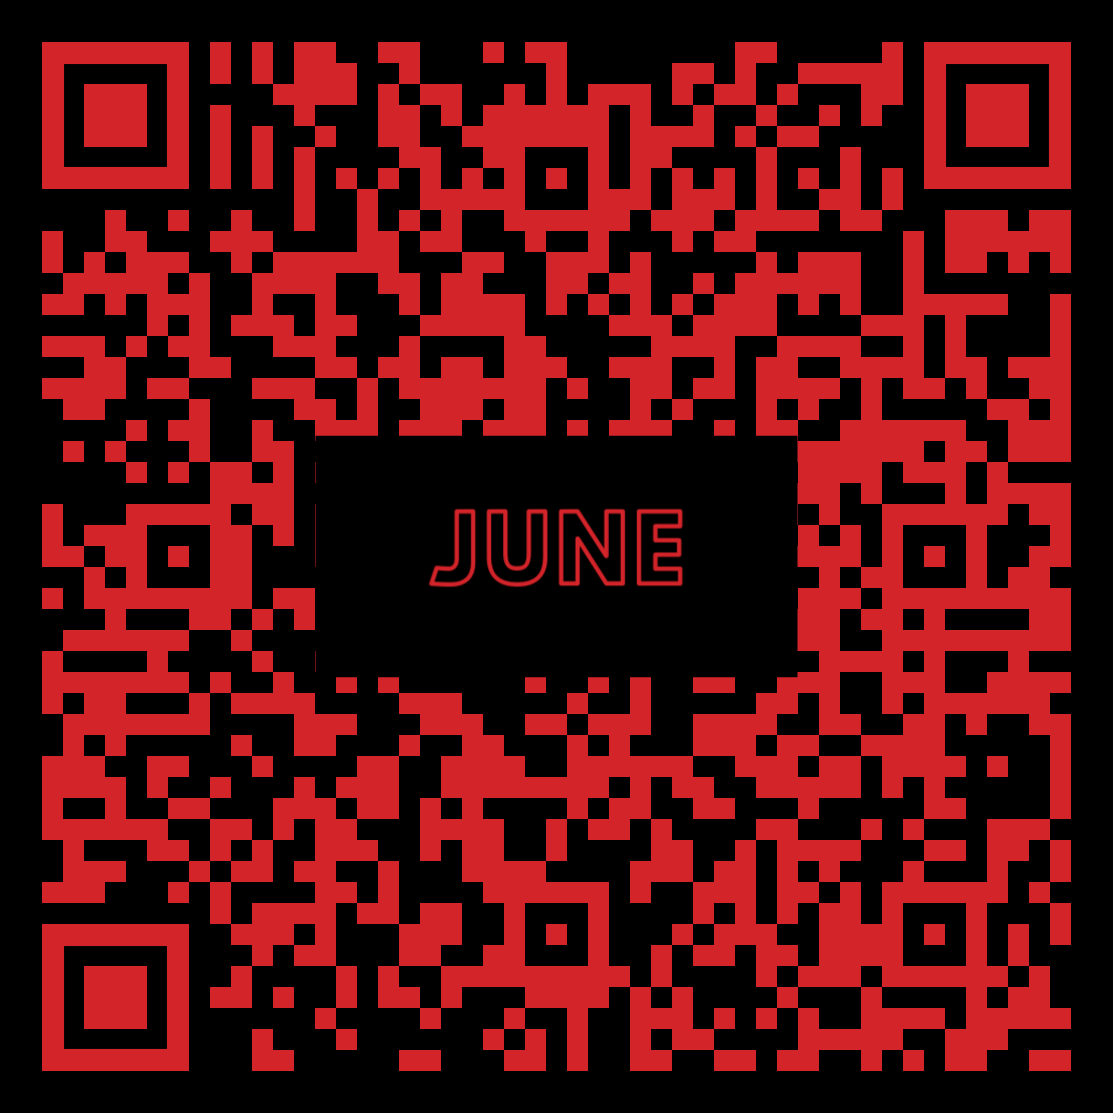
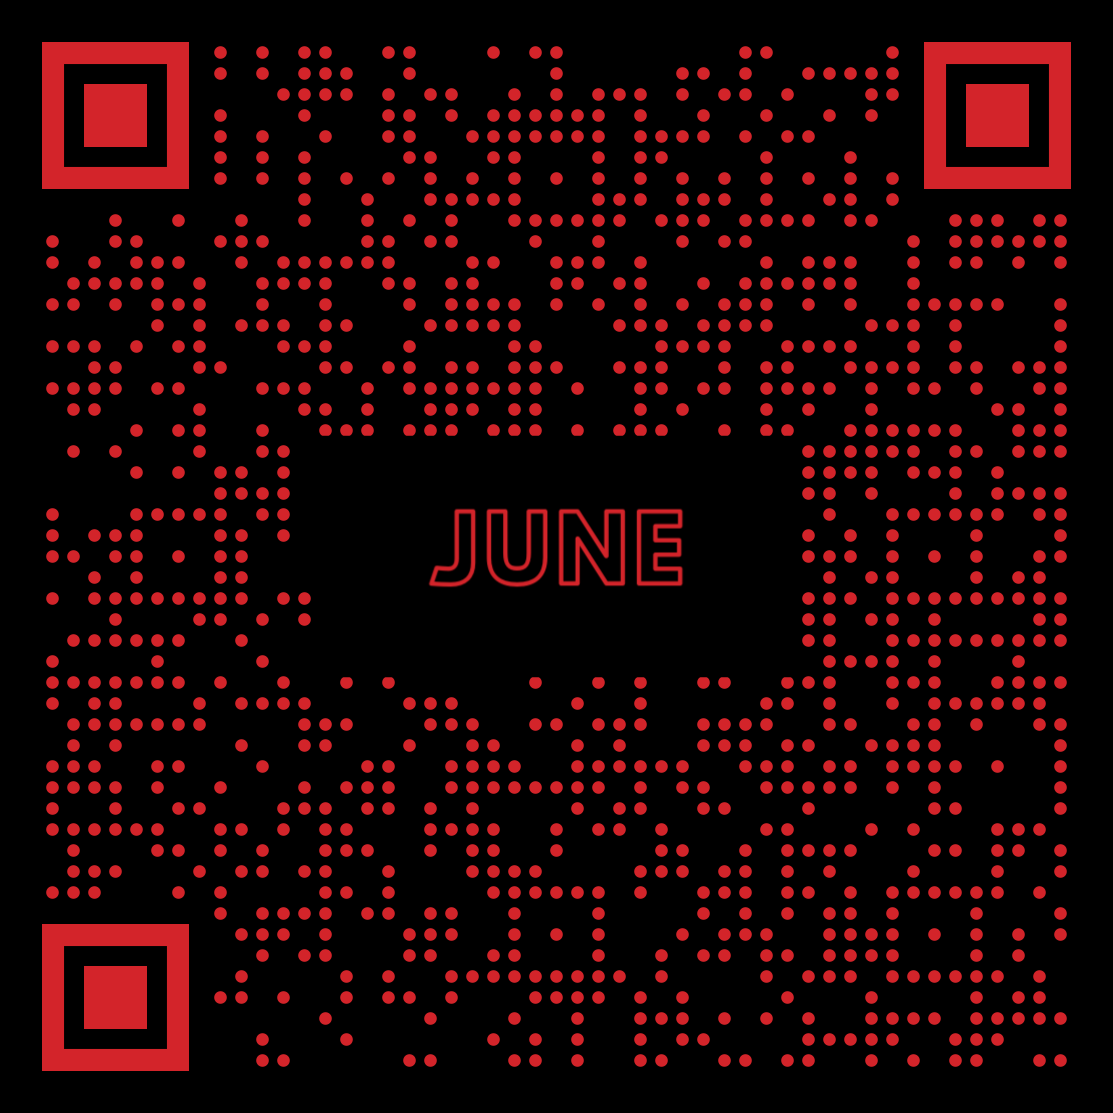
.

Changed region(s): [[0.0305, 0.0305, 0.9775, 0.9775]]

diff --git a/index.html b/index.html
@@ -6,49 +6,73 @@
     <meta http-equiv="X-UA-Compatible" content="ie=edge">
     <link rel="stylesheet" type="text/css" href="css/index.css" />
     <link rel="stylesheet" type="text/css" href="css/futurenow.css" />
+    <link rel="stylesheet" type="text/css" href="css/slideshow.css" />
     <title>Workshop</title>
 </head>
 
-<body>
-
+<body>   
     <div id='cal-container'>
-            <div id='cal-jan'><img class='cal-qr' src='qr-codes/fn-qr-aug.png'></div> 
-            <div id='cal-feb'><img class='cal-qr' src='qr-codes/fn-qr-aug.png'></div> 
-            <div id='cal-mar'><img class='cal-qr' src='qr-codes/fn-qr-aug.png'></div> 
-            <div id='cal-apr'><img class='cal-qr' src='qr-codes/fn-qr-aug.png'></div> 
-            <div id='cal-may'><img class='cal-qr' src='qr-codes/fn-qr-aug.png'></div> 
-            <div id='cal-jun'><img class='cal-qr' src='qr-codes/fn-qr-aug.png'></div> 
-            <div id='cal-jul'><img class='cal-qr' src='qr-codes/fn-qr-aug.png'></div> 
-            <div id='cal-aug'><img class='cal-qr' src='qr-codes/fn-qr-aug.png'></div> 
-            <div id='cal-sep'><img class='cal-qr' src='qr-codes/fn-qr-aug.png'></div> 
-            <div id='cal-oct'><img class='cal-qr' src='qr-codes/fn-qr-aug.png'></div> 
-            <div id='cal-nov'><img class='cal-qr' src='qr-codes/fn-qr-aug.png'></div> 
-            <div id='cal-dec'><img class='cal-qr' src='qr-codes/fn-qr-aug.png'></div> 
-        </div>
+        <div id='cal-jan'></div> 
+        <div id='cal-feb'></div> 
+        <div id='cal-mar'></div> 
+        <div id='cal-apr'></div> 
+        <div id='cal-may'><img class='cal-qr' src='qr-codes/fn-qr-may.png'></div> 
+        <div id='cal-jun'><img class='cal-qr' src='qr-codes/fn-qr-jun.png'></div> 
+        <div id='cal-jul'></div> 
+        <div id='cal-aug'><img class='cal-qr' src='qr-codes/fn-qr-aug.png'></div> 
+        <div id='cal-sep'></div> 
+        <div id='cal-oct'></div> 
+        <div id='cal-nov'></div> 
+        <div id='cal-dec'></div> 
+    </div>
 
+    <div id="slideshow-container">  
+      <div id='images' class="pup1" onclick='swapImage()'></div>
+    </div>
+
+    
     <video id='mainVideo' width="100" height="100">
-            <source  type="video/mp4">
+        <source type="video/mp4">
     </video>
-
-    <script src="/socket.io/socket.io.js"></script>
 
     <script>
         const $ = (x) => document.getElementById(x)
+        let mode = 0
+        function swapImage(){
+            let classes = ['pup1', 'pup2', 'pup3']
+            
+            $('images').classList = classes[mod]
+            return mod == classes.length -1 ? mod = 0 : mod++     
+        }
+    </script>
+
+
+    <script src="/socket.io/socket.io.js"></script>
+ 
+    <script>
+        // const $ = (x) => document.getElementById(x)
         let currentAction  
-        
+   
         var socket = io();
         socket.on('action', (action) => {
             currentAction = action
             if(currentAction == 'future'){
-                $('cal-container').style.visibility = 'visible'
+                $('cal-container').style.display = 'grid'
+                $('mainVideo').style.display = 'none'
+                $('slideshow-container').style.display = 'none'
+            }
+            else if(currentAction == 'slideshow'){
+                $('cal-container').style.display = 'none'
+                $('mainVideo').style.display = 'none'
+                $('slideshow-container').style.display = 'grid'
             }
             else{
-                $('cal-container').style.visibility = 'hidden'
+                $('cal-container').style.display = 'none'
+                $('slideshow-container').style.display = 'none'
                 $('mainVideo').setAttribute("src", `http://localhost:3000/${currentAction}`)
                 $('mainVideo').load();
                 $('mainVideo').play();
             }
-
         });
     </script>
 </body>

diff --git a/public/css/slideshow.css b/public/css/slideshow.css
@@ -1,0 +1,55 @@
+#slideshow-container{
+    /* display: ; */
+    align-content: center;
+    justify-content: center;
+    height: 100vh;
+    width: 100vw
+}
+
+#slideshow-container > * {
+    background-size: contain;
+    background-repeat:no-repeat; 
+    background-position: center center;
+    transition: 0.2
+}
+
+img{
+    height: 100%;
+    width: 100%;
+}
+
+
+#images{
+    height: 100%;
+    width: 100%;
+}
+
+.pup1{
+    background-image: url('/slideshow/pup1.jpg')
+}
+
+.pup2{
+    background-image: url('/slideshow/pup2.jpg')
+}
+
+.pup3{
+    background-image: url('/slideshow/pup3.jpg')
+}
+
+
+.fade {
+  -webkit-animation-name: fade;
+  -webkit-animation-duration: 1.5s;
+  animation-name: fade;
+  animation-duration: 1.5s;
+}
+
+@-webkit-keyframes fade {
+  from {opacity: .4} 
+  to {opacity: 1}
+}
+
+@keyframes fade {
+  from {opacity: .4} 
+  to {opacity: 1}
+}

diff --git a/public/css/futurenow.css b/public/css/futurenow.css
@@ -3,11 +3,12 @@ body{
     margin: none;
     height: 100vh;
     width: 100vw;
+    position: relative;
+    z-index: 1
 }
 
 #cal-container{
-    visibility: hidden;
-    display: grid;
+    display: none;
     grid-template-areas: 'a b c d' 'e f g h' 'i j k l';
     align-content: center;
     justify-content: center;
@@ -17,7 +18,8 @@ body{
     width: 25vw;
     height: 33vh;
     display: flex;
-    justify-content: center
+    justify-content: center;
+    border: dashed white 1px;
 }
 
 .cal-qr{

diff --git a/public/css/index.css b/public/css/index.css
@@ -1,14 +1,20 @@
 body{
     height: 100vh;
     width: 100vw;
-    background-color: black
+    background-color: black;
+    margin: none;
 }
+
 
 #mainVideo{
     position: fixed; 
+    display: none;
     right: 0; 
     bottom: 0;
     min-width: 100%; 
     min-height: 100%;
     background-size: cover;
   }
+
+
+
